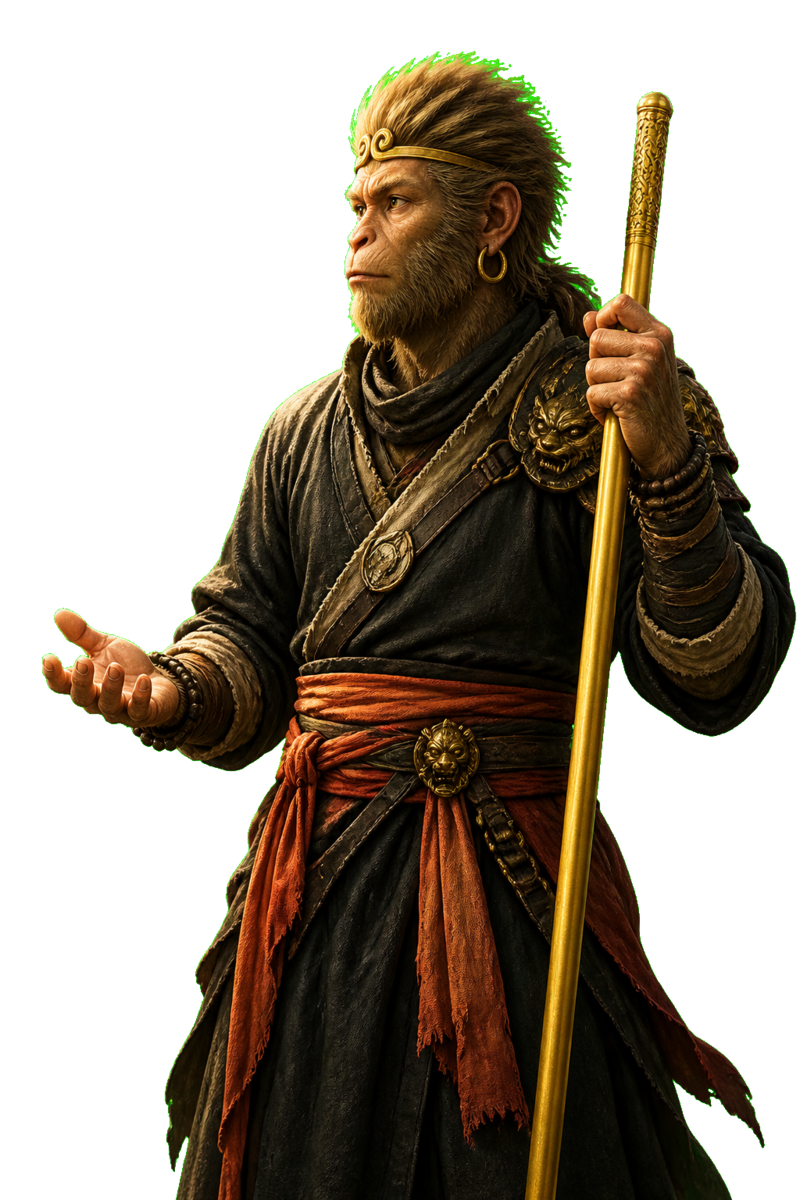
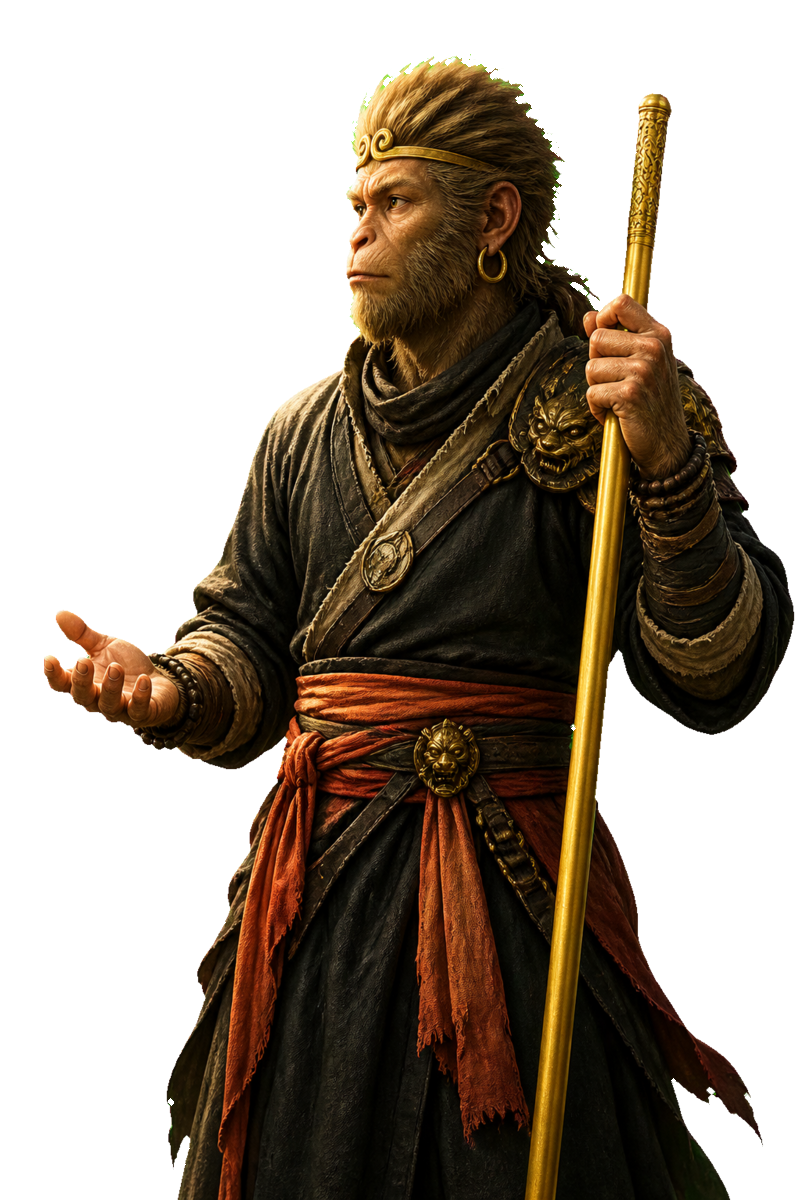
fix: keep README source assets out of Codex packages
The hybrid hero source is an editable intermediate, not a runtime plugin
file. Re-key the cutout and enlarge the workflow strip so labels meet the
GitHub canvas size bar.

diff --git a/README.ja.md b/README.ja.md
@@ -18,7 +18,7 @@
 > Wukong Code は、組み合わせ可能なスキルと、それらを適切なタイミングで自動起動させる初期指示をコーディングエージェントに提供します。ブレインストーミングと計画から TDD、レビュー、検証までを一貫して支えます。
 
 <p align="center">
-  <img src="./assets/readme/workflow.svg" width="100%" alt="開発パス: アイデア、設計、計画、RED、GREEN、その後レビューと検証。">
+  <img src="./assets/readme/workflow.svg" width="100%" alt="開発パス: 設計、計画、RED、GREEN、その後検証。">
 </p>
 
 ---

diff --git a/README.md b/README.md
@@ -18,7 +18,7 @@ Design first · Test-driven development · Evidence before claims
 > Wukong Code gives your coding agent a set of composable skills and the startup instructions that make those skills activate at the right moment—from brainstorming and planning to TDD, review, and verification.
 
 <p align="center">
-  <img src="./assets/readme/workflow.svg" width="100%" alt="Development path: idea, design, plan, RED, GREEN, then review and verify.">
+  <img src="./assets/readme/workflow.svg" width="100%" alt="Development path: design, plan, RED, GREEN, then verify.">
 </p>
 
 ---

diff --git a/README.ko.md b/README.ko.md
@@ -18,7 +18,7 @@
 > Wukong Code는 조합 가능한 스킬과 각 스킬을 적절한 순간에 자동으로 활성화하는 시작 지침을 코딩 에이전트에 제공합니다. 브레인스토밍과 계획부터 TDD, 리뷰, 검증까지 하나의 흐름으로 연결합니다.
 
 <p align="center">
-  <img src="./assets/readme/workflow.svg" width="100%" alt="개발 경로: 아이디어, 설계, 계획, RED, GREEN, 이후 리뷰와 검증.">
+  <img src="./assets/readme/workflow.svg" width="100%" alt="개발 경로: 설계, 계획, RED, GREEN, 이후 검증.">
 </p>
 
 ---

diff --git a/README.zh-TW.md b/README.zh-TW.md
@@ -18,7 +18,7 @@
 > Wukong Code 為你的程式設計智慧體提供一套可組合的技能，以及確保技能在正確時機自動觸發的啟動指令——涵蓋需求探索、設計規劃、TDD、審查與最終驗證。
 
 <p align="center">
-  <img src="./assets/readme/workflow.svg" width="100%" alt="開發路徑：想法、設計、計畫、RED、GREEN，然後審查與驗證。">
+  <img src="./assets/readme/workflow.svg" width="100%" alt="開發路徑：設計、計畫、RED、GREEN，然後驗證。">
 </p>
 
 ---

diff --git a/README.zh-CN.md b/README.zh-CN.md
@@ -18,7 +18,7 @@
 > Wukong Code 为你的编程智能体提供一套可组合的技能，以及确保技能在正确时机自动触发的启动指令——覆盖需求探索、设计规划、TDD、评审与最终验证。
 
 <p align="center">
-  <img src="./assets/readme/workflow.svg" width="100%" alt="开发路径：想法、设计、计划、RED、GREEN，然后评审与验证。">
+  <img src="./assets/readme/workflow.svg" width="100%" alt="开发路径：设计、计划、RED、GREEN，然后验证。">
 </p>
 
 ---
